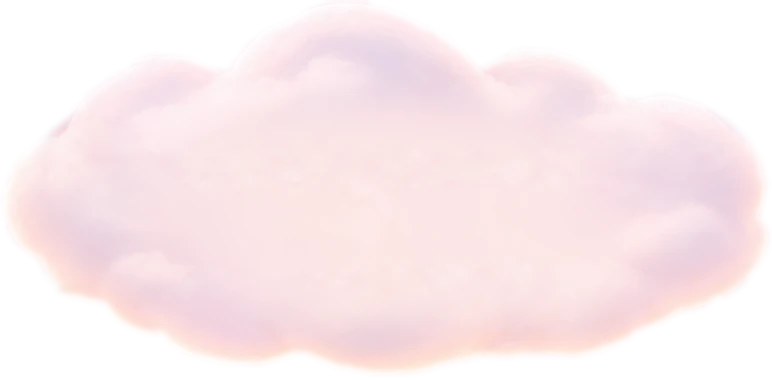
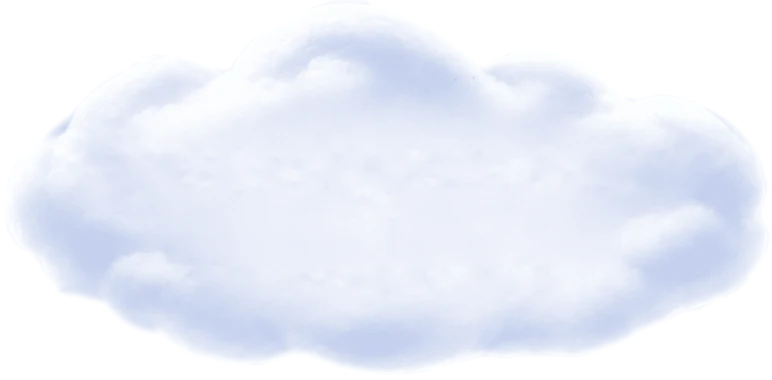
Экран 2: бело-голубые облака без ореола, огонёк вместо сакуры
Claude-Session: https://claude.ai/code/session_01MjzRZrgho7dF4bi81ehs9B

diff --git a/hoshi_redesign.css b/hoshi_redesign.css
@@ -375,27 +375,27 @@ body.rd .word-cards:has(.rd-word){gap:14px 18px;padding-top:10px}
 body.rd .word-card.rd-word{
   isolation:isolate;aspect-ratio:772/380;min-height:0;gap:6px;padding:9% 9% 8%;border:0;border-radius:0;
   background:url(hoshi_word_cloud_v1.webp) center/100% 100% no-repeat;box-shadow:none;
-  filter:drop-shadow(0 8px 16px rgba(90,100,170,.16));transition:transform .2s ease,filter .35s ease}
+  filter:drop-shadow(0 8px 16px rgba(80,100,170,.14));transition:transform .2s ease,filter .35s ease}
 body.rd .word-card.rd-word:hover{box-shadow:none;transform:translateY(-2px)}
 body.rd .word-card.rd-word:active{transform:scale(.98)}
-body.rd .word-card.rd-word .word-parts{font:italic 600 clamp(21px,2.5vw,28px)/1.25 var(--rd-serif-it);color:#4a2a22;letter-spacing:0}
-body.rd .word-card.rd-word .word-parts .rd-dash{vertical-align:top;height:1.25em;line-height:1.25;color:#7a4a3a;font-style:normal}
+body.rd .word-card.rd-word .word-parts{font:italic 600 clamp(21px,2.5vw,28px)/1.25 var(--rd-serif-it);color:#2f3a72;letter-spacing:0}
+body.rd .word-card.rd-word .word-parts .rd-dash{vertical-align:top;height:1.25em;line-height:1.25;color:#6f86c8;font-style:normal}
 /* разделитель с узелком */
 body.rd .rd-knot{position:relative;display:block;width:62%;height:10px;flex:none;
-  background:linear-gradient(90deg,transparent,rgba(122,74,58,.55) 18%,rgba(122,74,58,.55) 42%,transparent 44% 56%,rgba(122,74,58,.55) 58%,rgba(122,74,58,.55) 82%,transparent) center/100% 1px no-repeat}
-body.rd .rd-knot::before{content:"";position:absolute;left:50%;top:50%;width:7px;height:7px;margin:-4.5px 0 0 -4.5px;border:1px solid rgba(122,74,58,.75);transform:rotate(45deg)}
-body.rd .rd-knot::after{content:"";position:absolute;left:50%;top:50%;width:2px;height:2px;margin:-1px 0 0 -1px;border-radius:50%;background:rgba(122,74,58,.8);box-shadow:-13px 0 0 rgba(122,74,58,.6),13px 0 0 rgba(122,74,58,.6)}
-body.rd .word-card.rd-word .rd-word-hint{gap:8px;font:italic 500 clamp(14px,1.5vw,16px)/1.2 var(--rd-serif-it);color:#6e4b3e}
+  background:linear-gradient(90deg,transparent,rgba(70,86,150,.55) 18%,rgba(70,86,150,.55) 42%,transparent 44% 56%,rgba(70,86,150,.55) 58%,rgba(70,86,150,.55) 82%,transparent) center/100% 1px no-repeat}
+body.rd .rd-knot::before{content:"";position:absolute;left:50%;top:50%;width:7px;height:7px;margin:-4.5px 0 0 -4.5px;border:1px solid rgba(70,86,150,.75);transform:rotate(45deg)}
+body.rd .rd-knot::after{content:"";position:absolute;left:50%;top:50%;width:2px;height:2px;margin:-1px 0 0 -1px;border-radius:50%;background:rgba(70,86,150,.8);box-shadow:-13px 0 0 rgba(70,86,150,.6),13px 0 0 rgba(70,86,150,.6)}
+body.rd .word-card.rd-word .rd-word-hint{gap:8px;font:italic 500 clamp(14px,1.5vw,16px)/1.2 var(--rd-serif-it);color:#56648f}
 body.rd .word-card.rd-word .rd-word-hint::before{display:none}
-body.rd .rd-sakura{display:inline-block;width:0;height:22px;flex:none;background:url(hoshi_sakura_v1.webp) center/contain no-repeat;opacity:0;transform:scale(.3) rotate(-40deg);transition:width .3s ease,opacity .3s ease,transform .45s cubic-bezier(.2,.8,.25,1.3)}
+body.rd .rd-sakura{display:inline-block;width:0;height:22px;flex:none;background:url(hoshi_flame_icon_v1.webp) center/contain no-repeat;opacity:0;transform:scale(.3) rotate(-40deg);transition:width .3s ease,opacity .3s ease,transform .45s cubic-bezier(.2,.8,.25,1.3)}
 /* собрано: тёплое свечение и цветок */
 body.rd .word-card.rd-word.rd-joined{background:url(hoshi_word_cloud_v1.webp) center/100% 100% no-repeat;box-shadow:none;
-  filter:drop-shadow(0 0 10px rgba(255,214,170,.95)) drop-shadow(0 0 22px rgba(255,190,150,.55)) drop-shadow(0 8px 16px rgba(160,110,110,.14))}
-body.rd .word-card.rd-word.rd-joined .rd-word-hint{color:#6e4b3e}
+  filter:drop-shadow(0 0 10px rgba(150,205,255,.9)) drop-shadow(0 0 24px rgba(90,170,250,.45)) drop-shadow(0 8px 16px rgba(80,100,170,.14))}
+body.rd .word-card.rd-word.rd-joined .rd-word-hint{color:#56648f}
 body.rd .word-card.rd-word.rd-joined .rd-word-hint::before{content:none}
 body.rd .word-card.rd-word.rd-joined .rd-sakura{width:22px;opacity:1;transform:none}
 /* лепестки */
-body.rd .rd-petal{position:absolute;left:var(--x);top:var(--y);width:11px;height:8px;border-radius:80% 0 80% 0;background:linear-gradient(135deg,#ffd3dc,#f29ab0);pointer-events:none;z-index:2;opacity:0;animation:rdPetal 1.6s ease-out forwards}
+body.rd .rd-petal{position:absolute;left:var(--x);top:var(--y);width:12px;height:12px;border-radius:50%;background:radial-gradient(circle,#fff 0 25%,#9fd3ff 55%,rgba(21,164,253,0) 72%);pointer-events:none;z-index:2;opacity:0;animation:rdPetal 1.6s ease-out forwards}
 @keyframes rdPetal{0%{opacity:0;transform:translate(0,0) rotate(0)}15%{opacity:1}100%{opacity:0;transform:translate(var(--dx),var(--dy)) rotate(var(--rot))}}
 body.rd .word-card.rd-word.rd-joined .word-parts{animation:rdJoin .45s ease}
 @media (prefers-reduced-motion:reduce){body.rd .rd-petal{display:none}body.rd .rd-sakura{transition:none}}

diff --git a/hoshi_chapters_1_2_3_4_bilingual_v1.html b/hoshi_chapters_1_2_3_4_bilingual_v1.html
@@ -426,7 +426,7 @@
   <link rel="preconnect" href="https://fonts.googleapis.com">
   <link rel="preconnect" href="https://fonts.gstatic.com" crossorigin>
   <link rel="stylesheet" href="https://fonts.googleapis.com/css2?family=Kurale&family=Lora:ital,wght@1,500;1,600&family=Manrope:wght@500;600;700;800&display=swap">
-  <link rel="stylesheet" href="hoshi_redesign.css?v=20261109-11">
+  <link rel="stylesheet" href="hoshi_redesign.css?v=20261109-12">
 </head>
 <body class="rd">
   <header class="top"><div class="top-inner">
@@ -1203,6 +1203,6 @@
       let reopenChapter=0;try{reopenChapter=Number(sessionStorage.getItem('hoshi-reopen-chapter'));sessionStorage.removeItem('hoshi-reopen-chapter')}catch(e){}[1,2,3,4].includes(reopenChapter)?showChapter(reopenChapter,false):(state.view==='chapter'?showChapter(state.current,false):showMap(false));
     })();
   </script>
-  <script src="hoshi_redesign.js?v=20261109-11"></script>
+  <script src="hoshi_redesign.js?v=20261109-12"></script>
 </body>
 </html>
